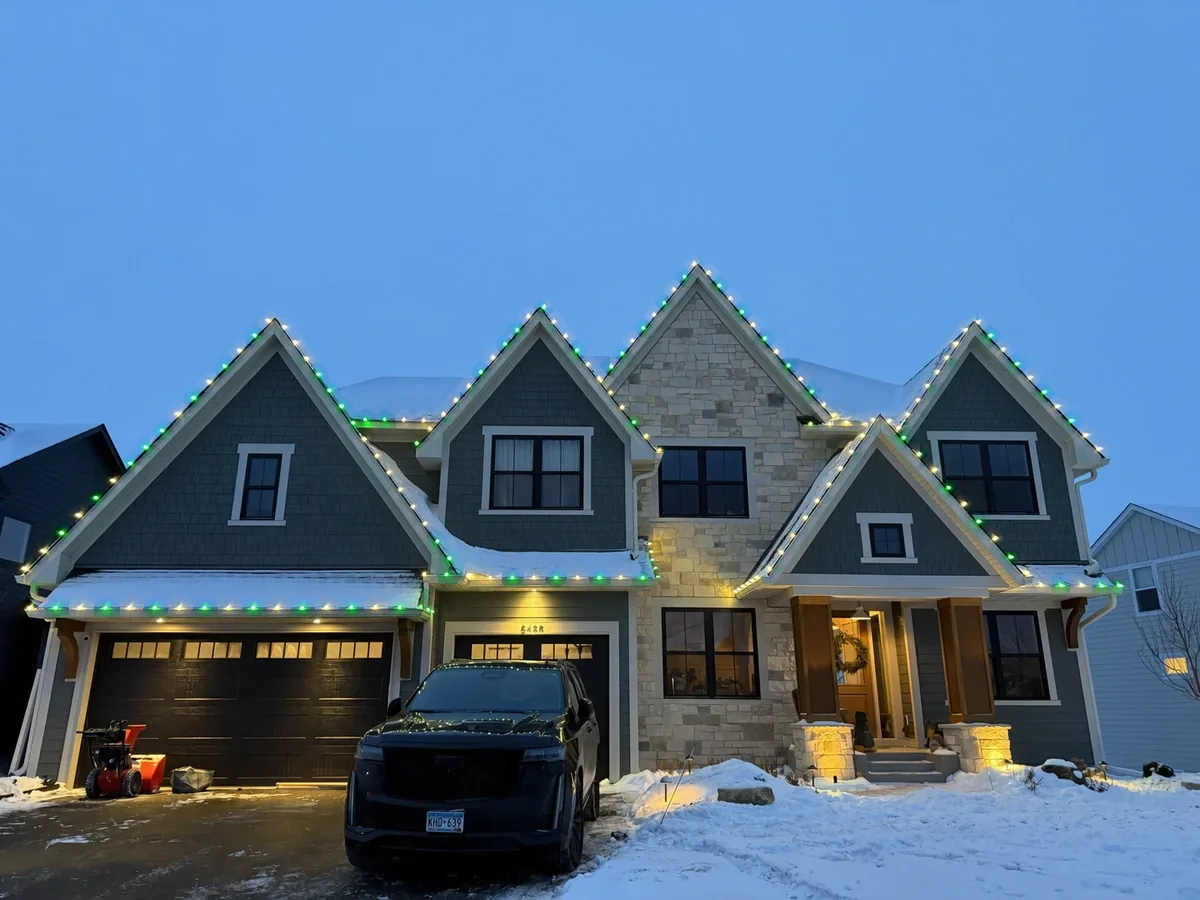
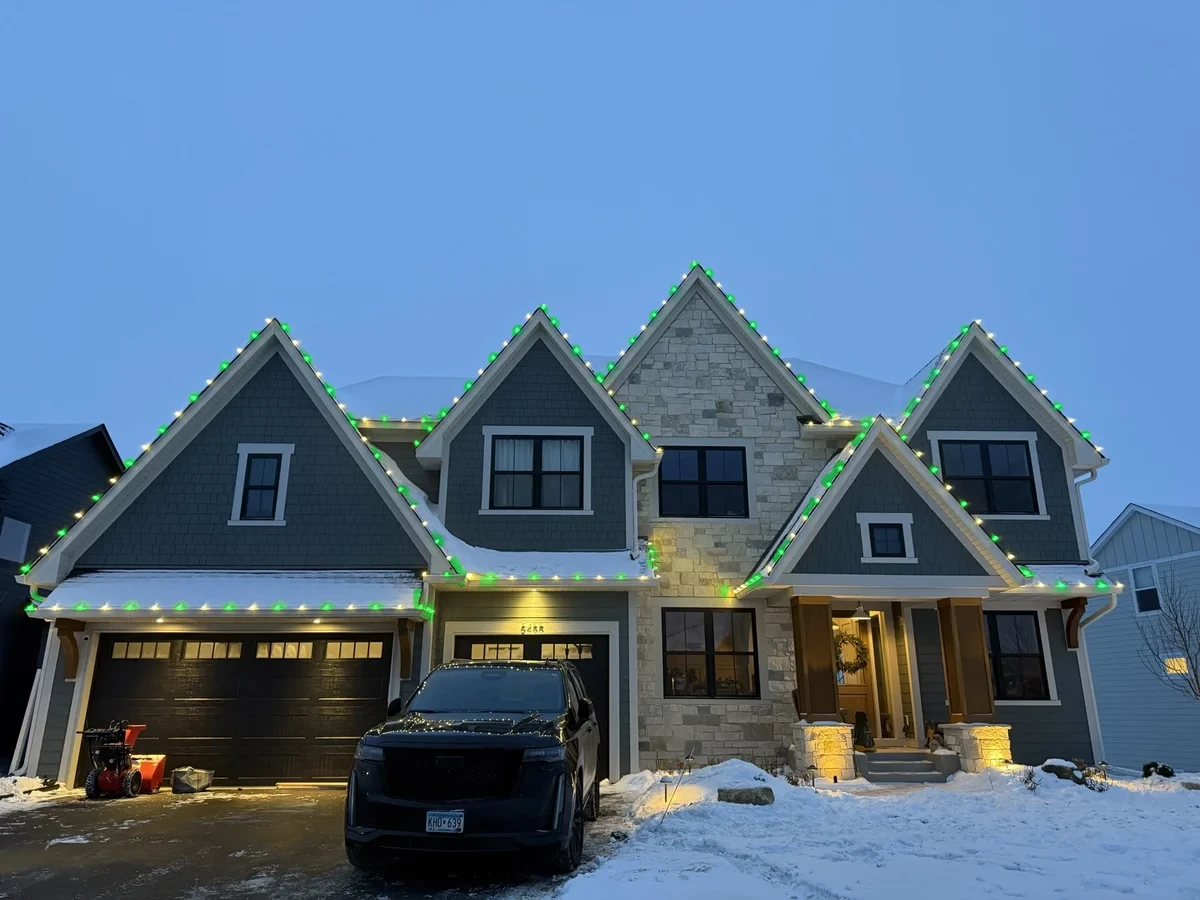
Color picker: rebuild White & green and Multicolor from the real photo so every bulb takes its color (Mike, 11/23)

diff --git a/scripts/recolor-lights.py b/scripts/recolor-lights.py
@@ -1,3 +1,4 @@
+# 11/23: also builds colors-mix (white and green) and colors-multi (red, green, orange, blue) from the real photo, after Mike circled missed bulbs in the AI versions.
 # Builds colors-redwhite / colors-redgreen from the warm white photo so the bulbs, their halos and the light they
 # cast all take the new color. light = white - background (bulbs eroded out); each bulb's light is re-tinted and added back.
 # Which bulb is which: the existing mix preview (warm white + green, alternating) gives the pattern.
@@ -58,14 +59,14 @@ for i in range(lab.max() + 1):
 lab = np.unique(new, return_inverse=True)[1]
 cy, cx = centers(lab); n = len(cy)
 P = np.stack([cy, cx], 1); D = np.sqrt(((P[:, None] - P[None]) ** 2).sum(2)); np.fill_diagonal(D, 1e9)
-color = -np.ones(n, int)
+color = -np.ones(n, int); depth = np.zeros(n, int)
 for s0 in np.argsort(cx):                       # BFS from the leftmost uncolored bulb
     if color[s0] >= 0: continue
     color[s0] = 0; q = [s0]
     while q:
         a = q.pop(0)
         for b in np.nonzero(D[a] < sp * 1.7)[0]:
-            if color[b] < 0: color[b] = 1 - color[a]; q.append(b)
+            if color[b] < 0: color[b] = 1 - color[a]; depth[b] = depth[a] + 1; q.append(b)
 # every pixel belongs to its nearest bulb, so overlapping halos never blend into a third color
 H, W = cores.shape
 gy, gx = np.mgrid[0:H:1, 0:W:1]
@@ -96,6 +97,18 @@ redwhite = build(fg * tint(light, RED) + (1 - fg) * light)
 redgreen = build(fg * tint(light, GREEN) + (1 - fg) * tint(light, RED))
 Image.fromarray(redwhite).save(f"{out}/colors-redwhite.webp", quality=90)
 Image.fromarray(redgreen).save(f"{out}/colors-redgreen.webp", quality=90)
+# White & green: every other bulb green, the rest stay the warm white they already are
+mix = build(fg * tint(light, GREEN) + (1 - fg) * light)
+Image.fromarray(mix).save(f"{out}/colors-mix.webp", quality=90)
+# Multicolor: red, green, orange, blue repeating along each run of bulbs (BFS step count mod 4)
+ORANGE, BLUE = (1.0, 0.52, 0.08), (0.18, 0.46, 1.0)
+PAL = [RED, GREEN, ORANGE, BLUE]
+mm = 0
+for k in range(4):
+    fk = filt((depth[own] % 4 == k) * 255.0, ImageFilter.GaussianBlur(0.8))[..., None] / 255.0
+    mm = mm + fk * tint(light, PAL[k])
+mult = build(mm / np.maximum(sum(filt((depth[own] % 4 == k) * 255.0, ImageFilter.GaussianBlur(0.8))[..., None] / 255.0 for k in range(4)), 1e-3))
+Image.fromarray(mult).save(f"{out}/colors-multi.webp", quality=90)
 
 # check: far from bulbs the photo is untouched; near bulbs both colors are present
 far = reach < 0.01
